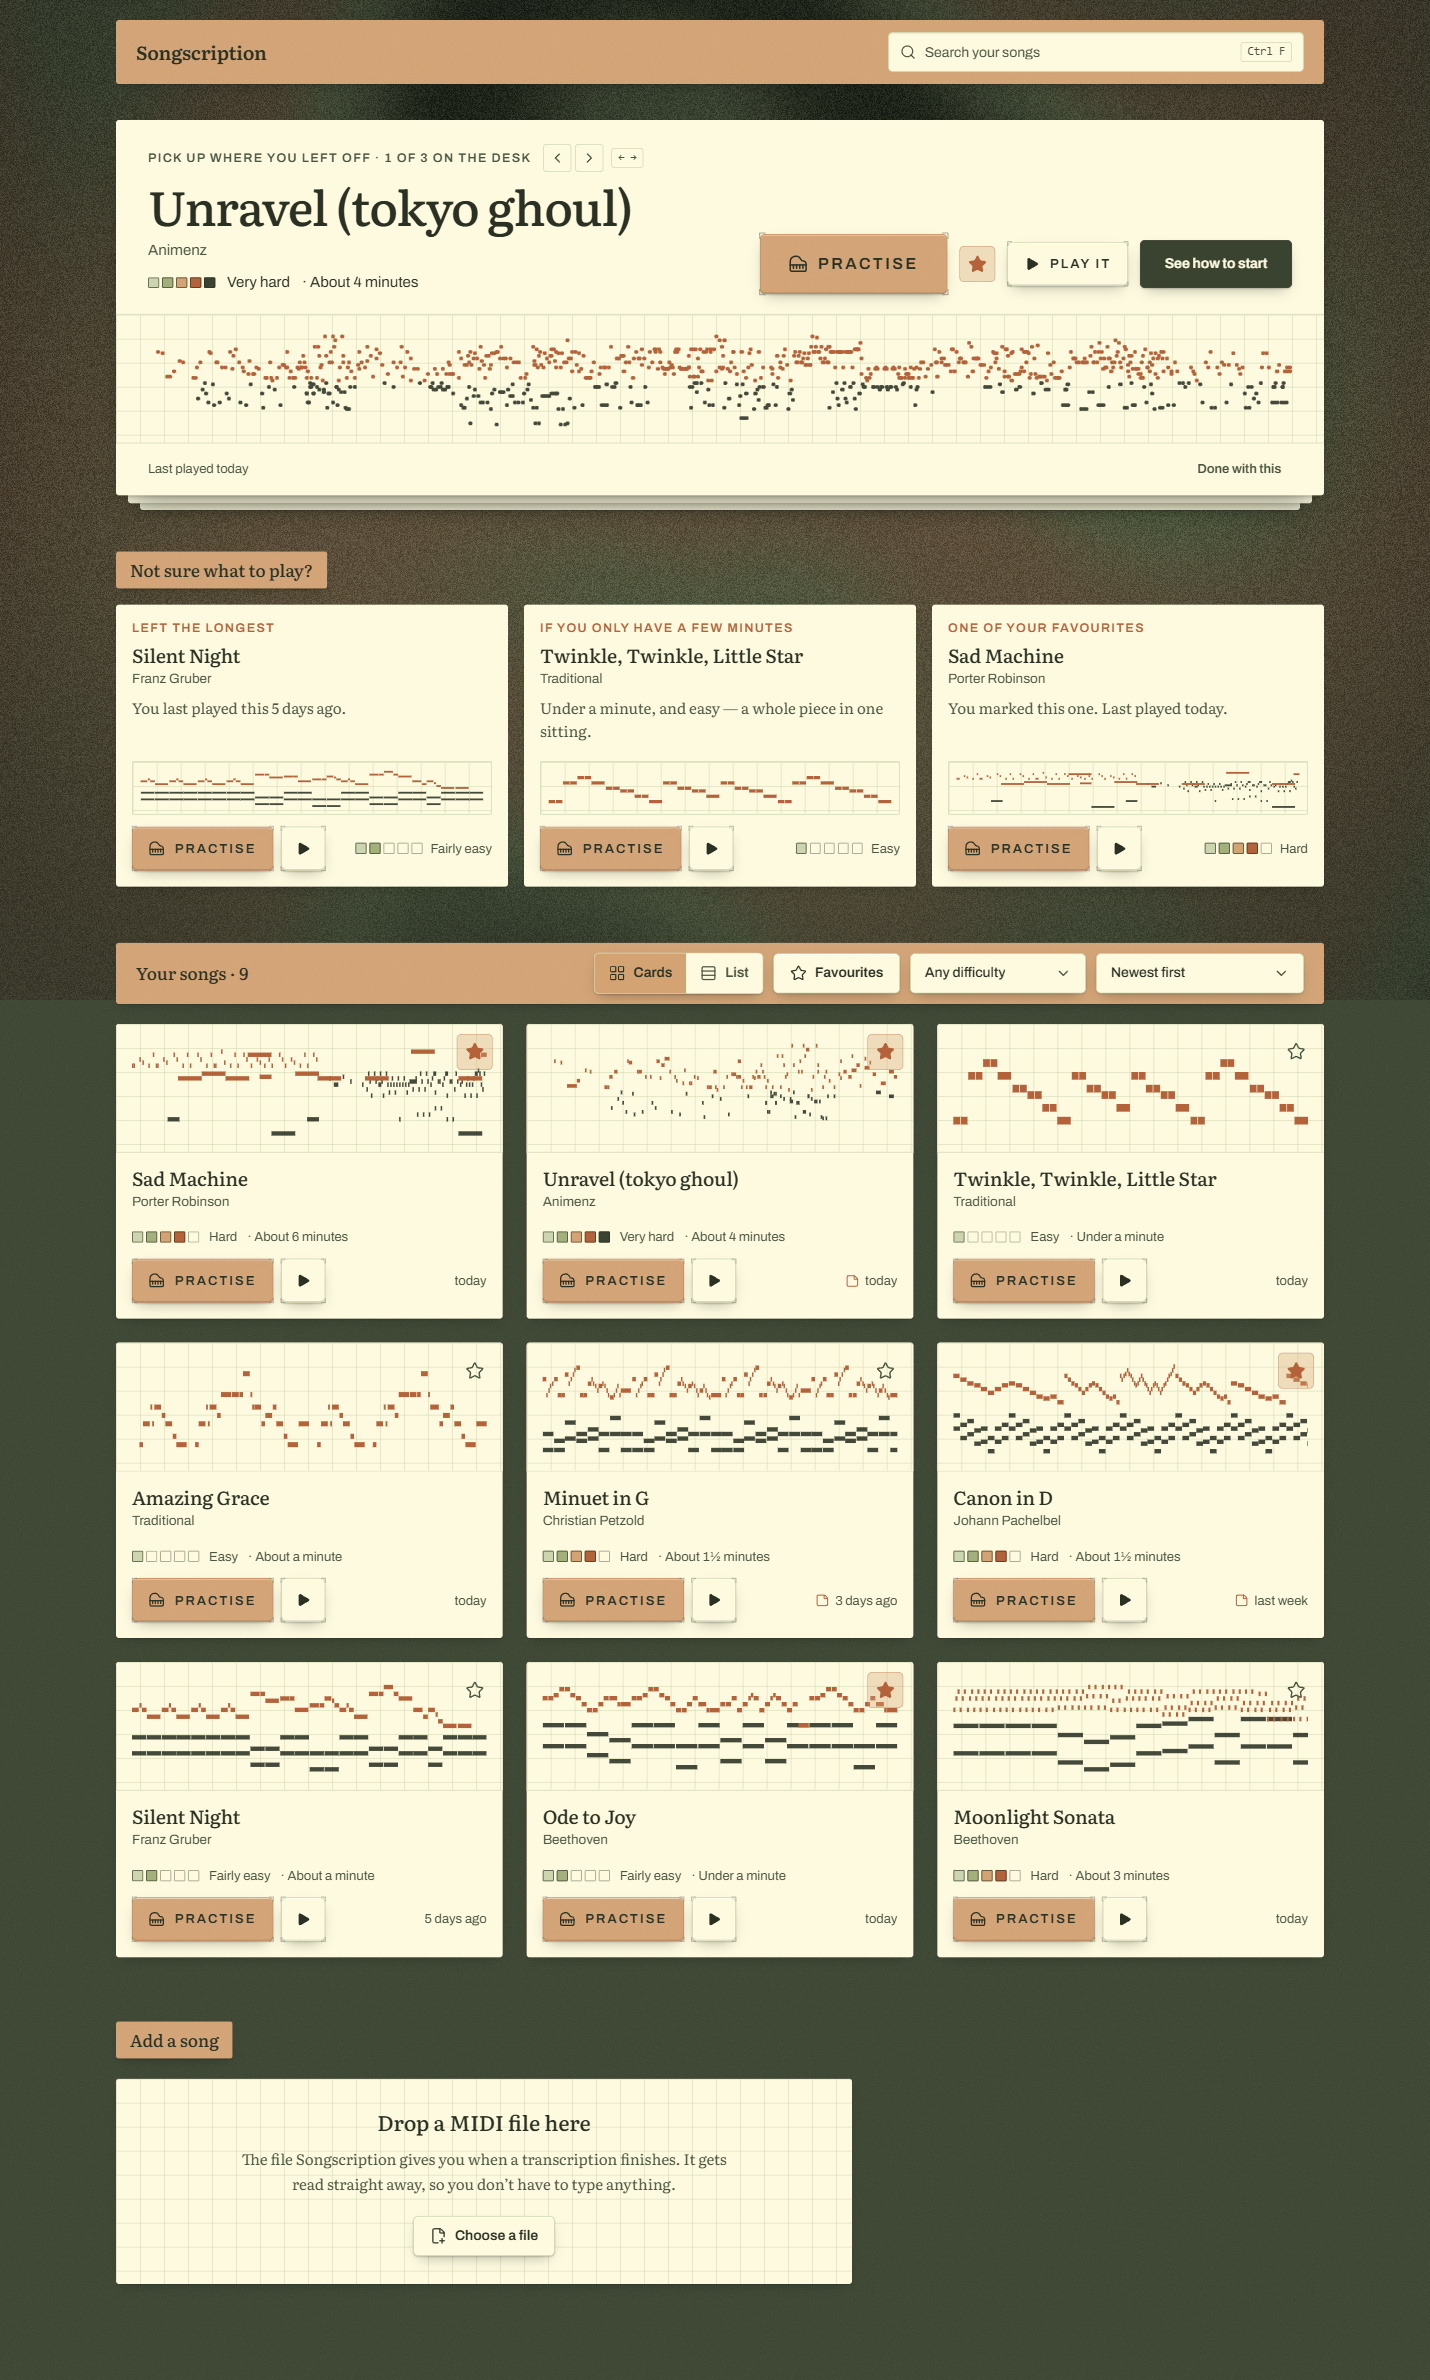
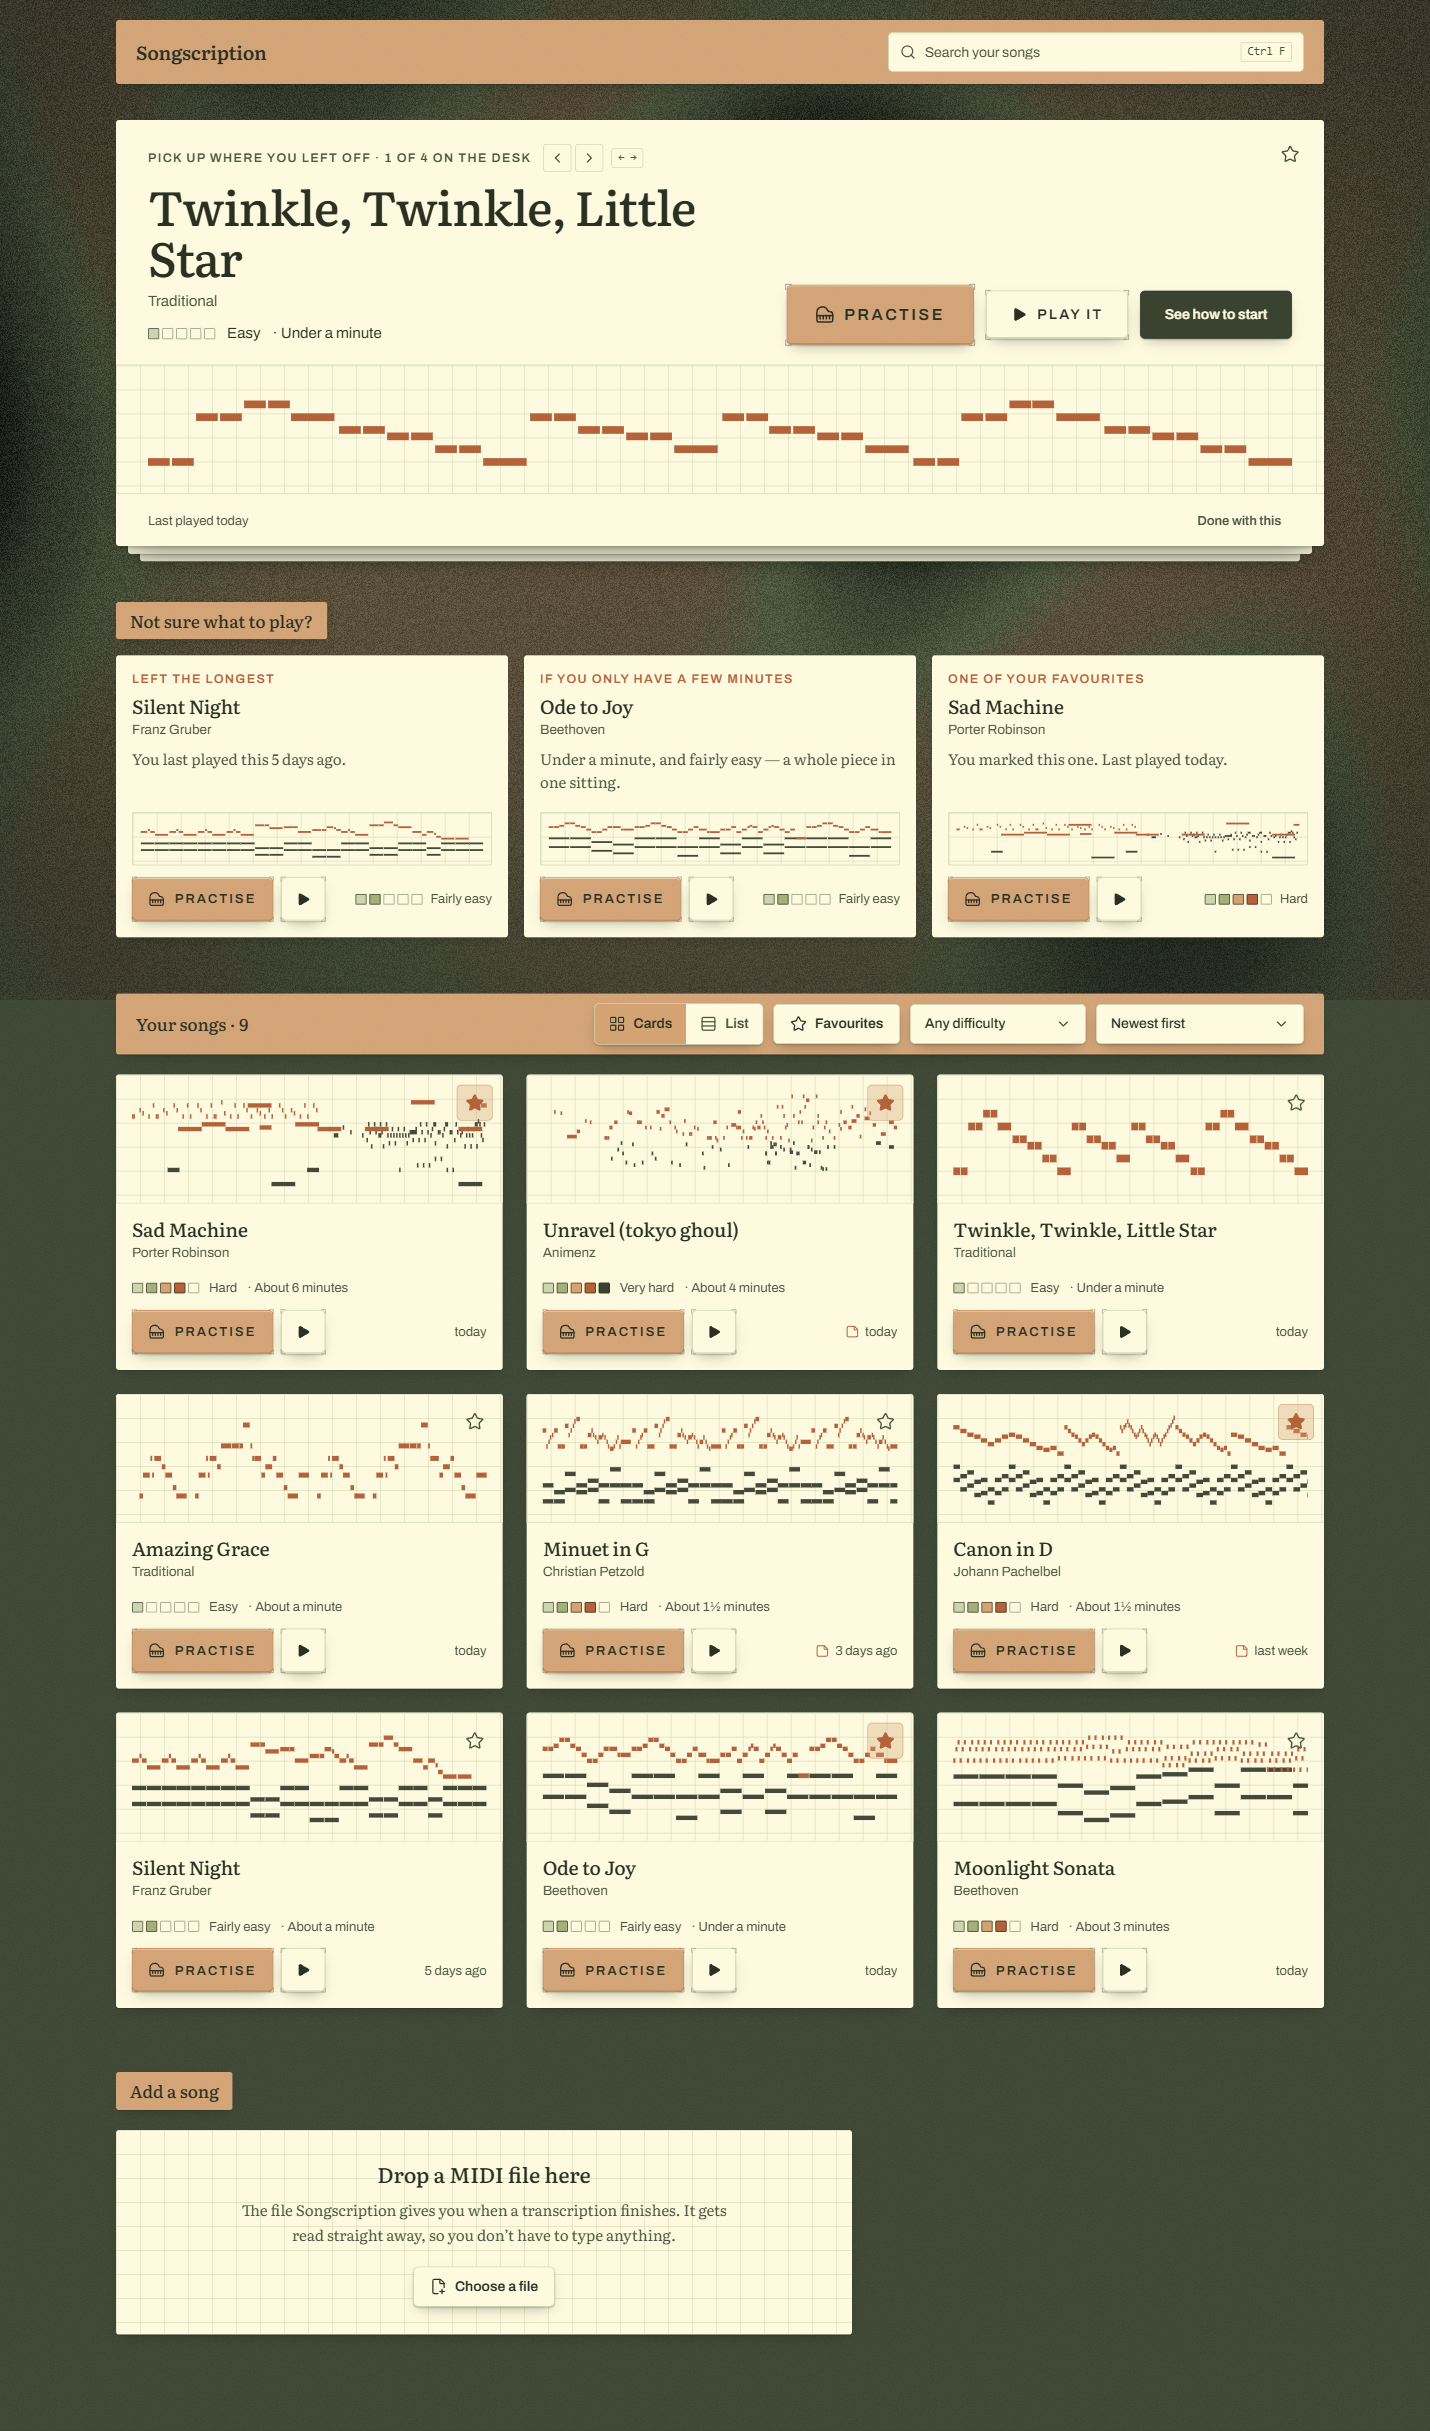
Four heights in one row, and the bookmark standing where the work goes
The desk card's actions were 36, 60, 44 and 48 pixels tall, in that order, which
reads as four unrelated objects rather than one primary and its seconds. Two
heights now: Practise at 60, the two that follow it at 48.

The favourite sat in the middle of that row — the least important thing on the
card holding its most prominent position, between the two buttons you came here
to press. It moves to the corner every other card in the book already keeps its
bookmark in. In the song sheet it travels with the close button for the same
reason.

The sheet had the same inversion as the cards did: playback large and clay in
the header, "Practise this" small in the footer corner. Practise leads there
too now, and the footer keeps the record that practising writes — last played,
sessions, time — with the duplicate button gone.

All five surfaces call the one practise(), so a session is logged the same way
wherever you press it. Verified from the sheet: 5 sessions to 6, stats line
updating live, practice_seconds untouched.

diff --git a/src/components/SongSheet.tsx b/src/components/SongSheet.tsx
@@ -4,7 +4,7 @@ import { useEffect, useMemo, useRef, useState } from "react";
 import { Download, Pencil, Trash2, X } from "lucide-react";
 import { Keyboard } from "./Keyboard";
 import { Roll, clock } from "./Roll";
-import { FavouriteButton, LevelMarks, Meter, PlayControl, usePlayback } from "./kit";
+import { FavouriteButton, LevelMarks, Meter, PlayControl, PractiseButton, usePlayback } from "./kit";
 import { Skeleton } from "@/components/ui/skeleton";
 import { Button } from "@/components/ui/button";
 import { Input } from "@/components/ui/input";
@@ -47,16 +47,22 @@ export function SongSheet({
   onClose,
   onPatch,
   onDelete,
+  onPractise,
+  practising = false,
+  logged = false,
 }: {
   piece: Piece;
   onClose: () => void;
   onPatch: (patch: Partial<Piece>) => void | Promise<void>;
   onDelete: () => void | Promise<void>;
+  /** Shared with every other surface, so a session is logged the same way. */
+  onPractise: () => void | Promise<void>;
+  practising?: boolean;
+  logged?: boolean;
 }) {
   const sheet = useRef<HTMLDivElement>(null);
   const [confirming, setConfirming] = useState(false);
   const [renaming, setRenaming] = useState(false);
-  const [marking, setMarking] = useState<"idle" | "working" | "done">("idle");
   const [removing, setRemoving] = useState(false);
   const [noteSaved, setNoteSaved] = useState(false);
 
@@ -208,7 +214,14 @@ export function SongSheet({
             )}
           </div>
 
-          <div className="order-2 shrink-0 md:order-3">
+          {/* The bookmark travels with the close button rather than sitting
+              between the two things you opened this page to do. */}
+          <div className="order-2 flex shrink-0 items-center gap-1 md:order-3">
+            <FavouriteButton
+              favourite={piece.is_favourite}
+              title={piece.title}
+              onToggle={() => onPatch({ is_favourite: !piece.is_favourite })}
+            />
             <DialogClose asChild>
               <Button variant="quiet" size="icon" aria-label="Close and go back to your songs">
                 <X />
@@ -216,12 +229,14 @@ export function SongSheet({
             </DialogClose>
           </div>
 
-          <div className="order-3 flex w-full items-center gap-2 md:order-2 md:w-auto">
-            <FavouriteButton
-              favourite={piece.is_favourite}
+          <div className="order-3 flex w-full flex-wrap items-center gap-2 md:order-2 md:w-auto md:flex-nowrap">
+            <PractiseButton
               title={piece.title}
-              onToggle={() => onPatch({ is_favourite: !piece.is_favourite })}
-              className="shrink-0"
+              onPractise={onPractise}
+              busy={practising}
+              done={logged}
+              size="large"
+              className="basis-full md:basis-auto"
             />
             <PlayControl
               state={playback.state}
@@ -431,26 +446,6 @@ export function SongSheet({
             </>
           ) : (
             <>
-              <Button
-                variant="paper"
-                busy={marking === "working"}
-                done={marking === "done"}
-                onClick={async () => {
-                  setMarking("working");
-                  try {
-                    await onPatch({
-                      last_practiced_at: new Date().toISOString(),
-                      in_progress: true,
-                    });
-                    setMarking("done");
-                    window.setTimeout(() => setMarking("idle"), 1800);
-                  } catch {
-                    setMarking("idle");
-                  }
-                }}
-              >
-                {marking === "done" ? "Started" : "Practise this"}
-              </Button>
               <p className="text-[13px] text-graphite-soft">
                 {lastPlayedLine(piece.last_practiced_at)}
                 {piece.session_count > 0 &&

diff --git a/src/components/Library.tsx b/src/components/Library.tsx
@@ -279,6 +279,9 @@ export function Library({ initial, configured }: { initial: Piece[]; configured:
           onClose={() => setOpenId(null)}
           onPatch={(changes) => patch(open, changes)}
           onDelete={() => remove(open)}
+          onPractise={() => practise(open)}
+          practising={practisingId === open.id}
+          logged={loggedId === open.id}
         />
       )}
 
@@ -351,6 +354,15 @@ export function Library({ initial, configured }: { initial: Piece[]; configured:
                       />
                     )}
                   <article key={current.id} className="lay-down sheet sheet-raised relative">
+                    {/* Same corner every other card in the book uses: saving a
+                        piece is not one of the three things you came here to do,
+                        and it was sitting in the middle of the row that is. */}
+                    <FavouriteButton
+                      favourite={current.is_favourite}
+                      title={current.title}
+                      onToggle={() => favourite(current)}
+                      className="absolute right-3 top-3 z-10 md:right-4 md:top-4"
+                    />
                     <div className="flex flex-wrap items-end gap-x-8 gap-y-4 px-4 pb-4 pt-5 md:gap-y-5 md:px-8 md:pb-5 md:pt-6">
                       <div className="min-w-0 flex-1">
                         {/* The page at the top is whichever piece is still on
@@ -408,6 +420,10 @@ export function Library({ initial, configured }: { initial: Piece[]; configured:
                           screen they overflow rather than shrink — the tertiary
                           one ran off the edge. Practise takes a line of its own
                           below md and the other three share the next. */}
+                      {/* Two heights, not four. Practise leads at 60px; the two
+                          that follow it both sit at 48, so the row reads as one
+                          primary and two seconds rather than four loose objects.
+                          The bookmark left entirely — see the card corner. */}
                       <div className="flex w-full flex-wrap items-center gap-2 md:w-auto md:flex-nowrap md:gap-3">
                         <PractiseButton
                           title={current.title}
@@ -417,16 +433,11 @@ export function Library({ initial, configured }: { initial: Piece[]; configured:
                           size="large"
                           className="basis-full md:basis-auto"
                         />
-                        <FavouriteButton
-                          favourite={current.is_favourite}
-                          title={current.title}
-                          onToggle={() => favourite(current)}
-                          className="shrink-0"
-                        />
                         <PlayButton
                           id={current.id}
                           fileUrl={fileUrl(current)}
                           title={current.title}
+                          size="large"
                           className="min-w-0 flex-1 md:flex-none"
                         />
                         <RevealButton
